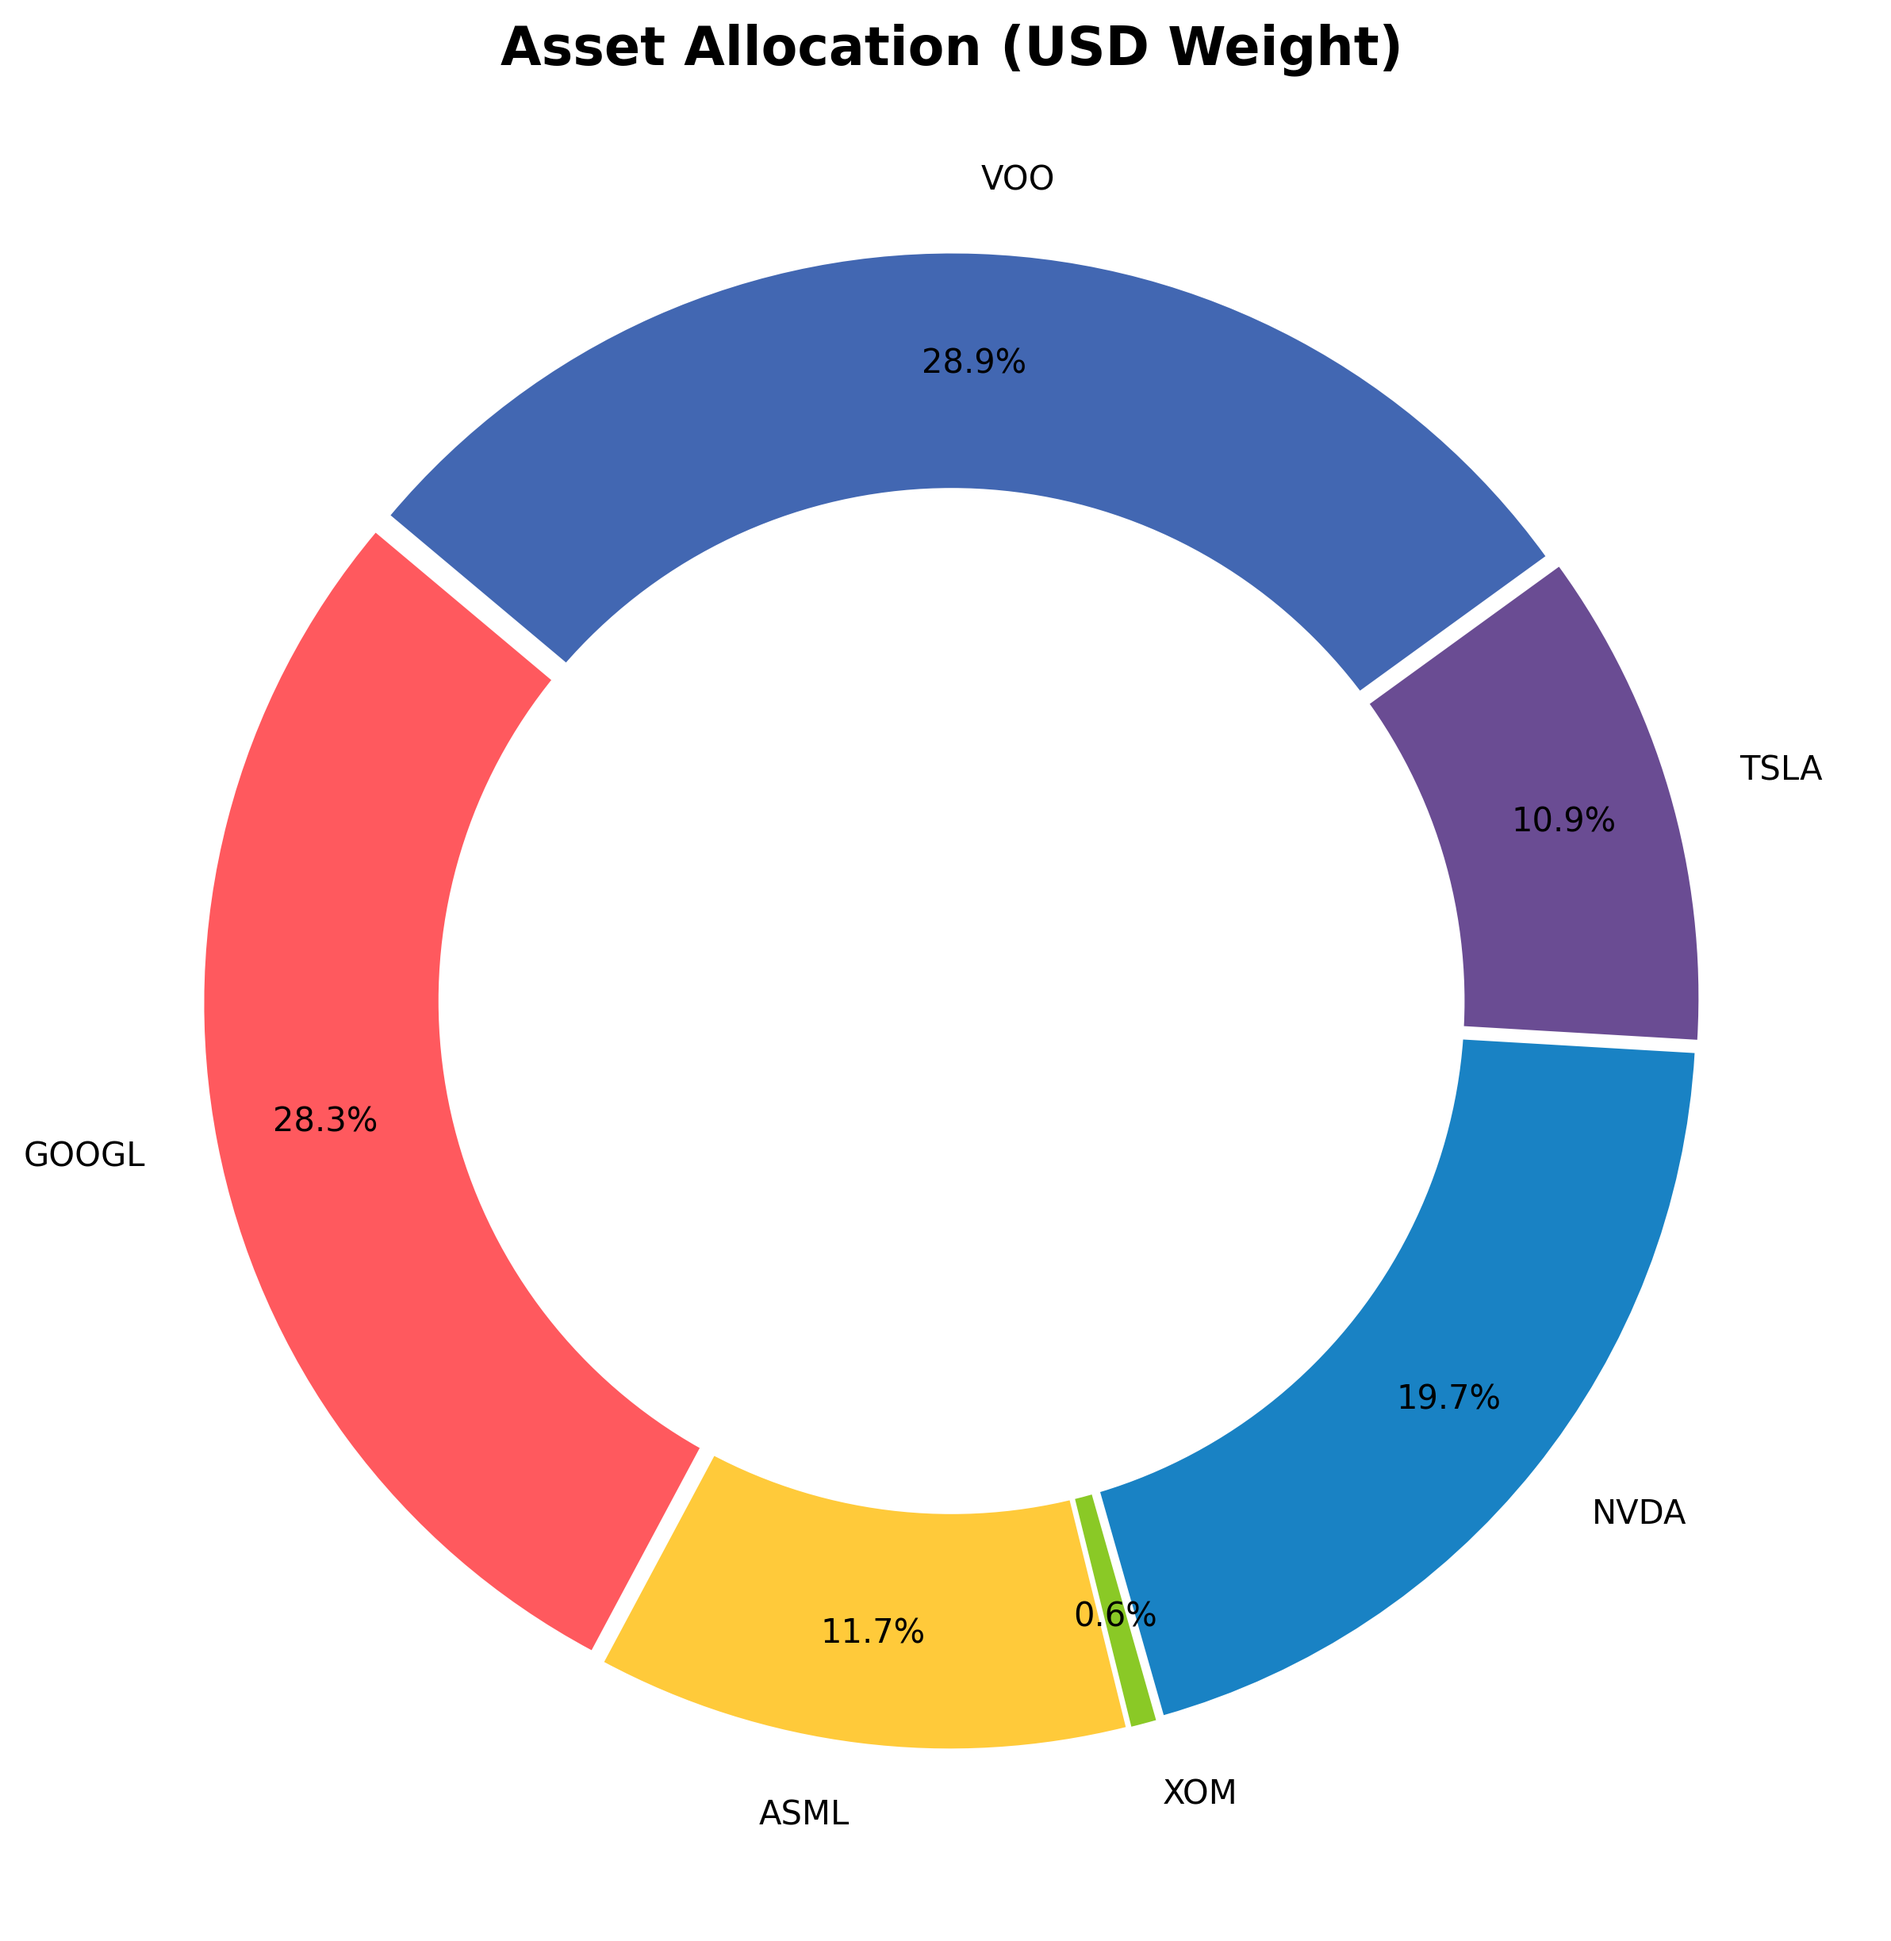
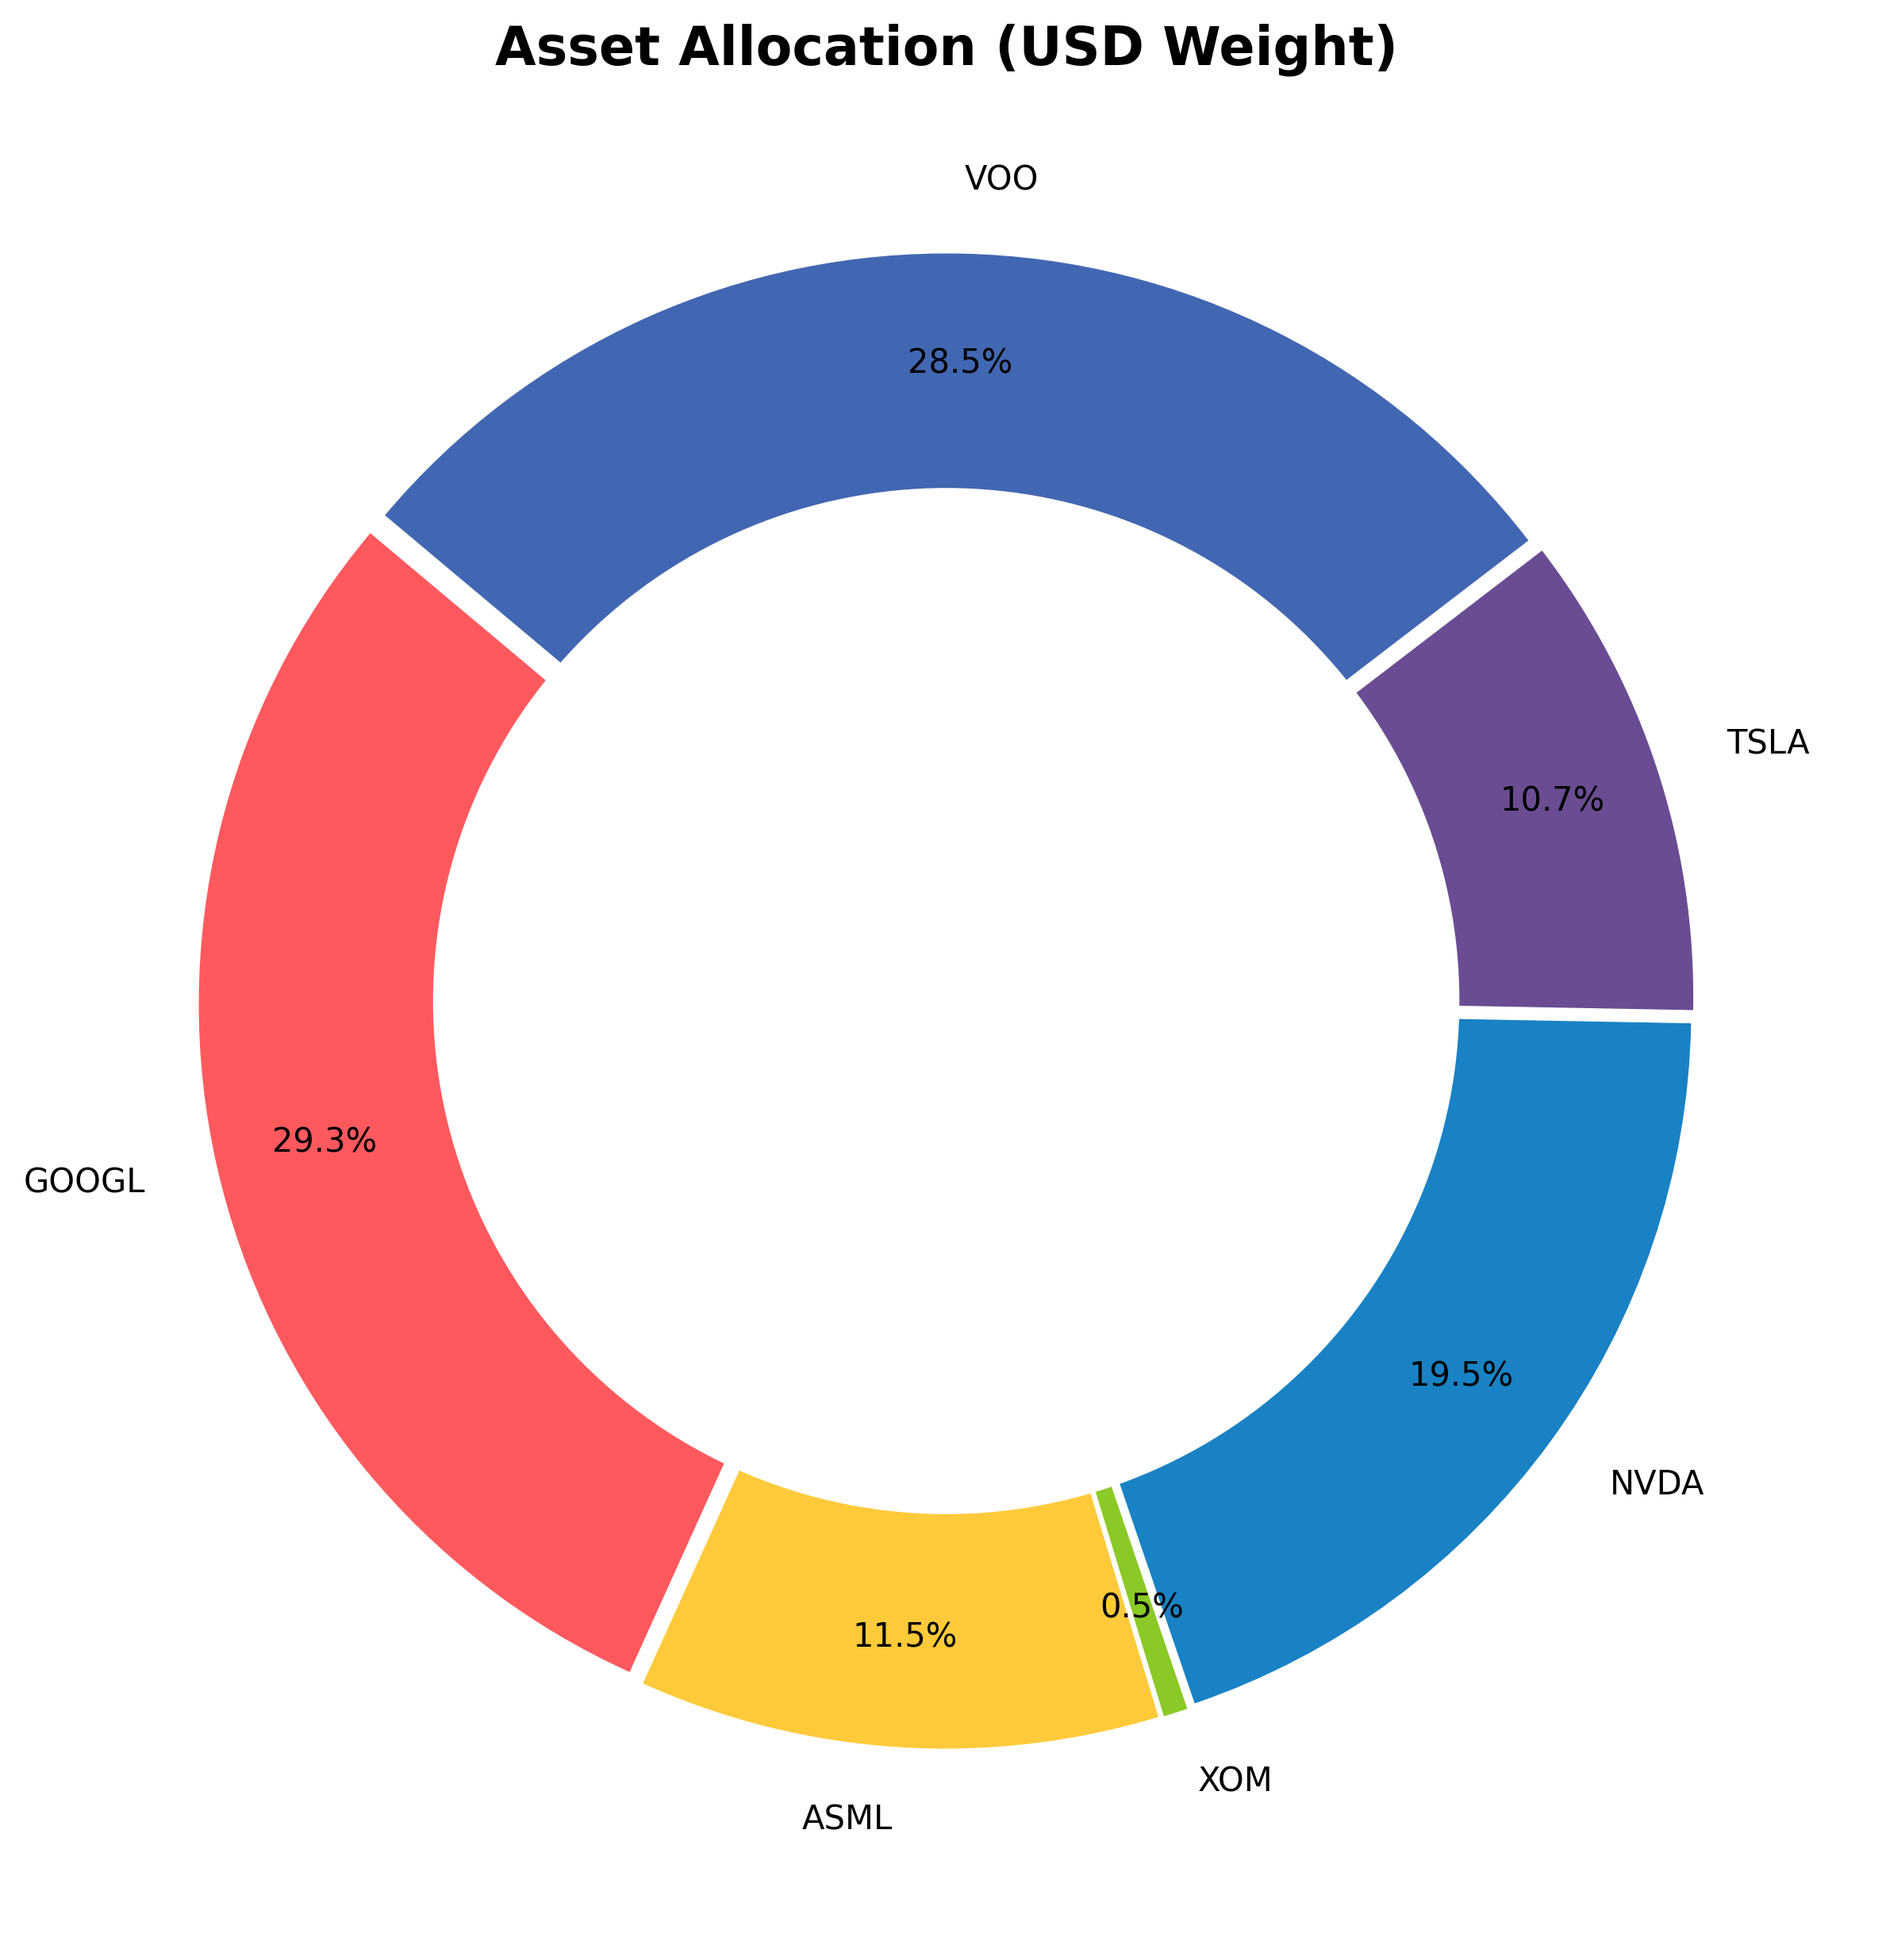
System Run: Analytics & Archive Update [skip ci]

diff --git a/README.md b/README.md
@@ -1,23 +1,23 @@
 # 📊 Portfolio Dashboard | מעקב תיק השקעות
-**Last Update:** 31/07/2026 02:12 | **USD/ILS:** ₪3.057
+**Last Update:** 31/07/2026 19:04 | **USD/ILS:** ₪3.061
 
 ## 💰 Portfolio Summary | סיכום התיק
 | Metric | Value | נתון |
 | :--- | :--- | :--- |
-| **Current Value** | `₪173,006` | **שווי נוכחי** |
-| **Total Invested** | `₪131,040` | **סך השקעה** |
-| **Total Profit/Loss** | `+32.03%` (₪41,966) | **רווח/הפסד כולל** |
-| **Daily Change** | `+1.87%` | **שינוי יומי** |
+| **Current Value** | `₪176,233` | **שווי נוכחי** |
+| **Total Invested** | `₪131,233` | **סך השקעה** |
+| **Total Profit/Loss** | `+34.29%` (₪45,000) | **רווח/הפסד כולל** |
+| **Daily Change** | `+2.25%` | **שינוי יומי** |
 
 ## 📜 Holdings | פירוט החזקות
 | Ticker | Shares | Avg. Cost | Current Price | P&L % | P&L ILS |
 | :--- | :--- | :--- | :--- | :--- | :--- |
-| GOOGL | 48 | $187.99 | $333.68 | 🟢 +77.50% | ₪21,375 |
-| ASML | 4 | $934.51 | $1,652.00 | 🟢 +76.78% | ₪8,772 |
-| XOM | 2 | $126.08 | $157.08 | 🟢 +24.59% | ₪190 |
-| NVDA | 57 | $148.62 | $195.15 | 🟢 +31.31% | ₪8,107 |
-| TSLA | 20 | $436.45 | $308.89 | 🔴 -29.23% | ₪-7,798 |
-| VOO | 24 | $527.38 | $681.70 | 🟢 +29.26% | ₪11,321 |
+| GOOGL | 48 | $187.99 | $351.99 | 🟢 +87.24% | ₪24,097 |
+| ASML | 4 | $934.51 | $1,649.36 | 🟢 +76.49% | ₪8,753 |
+| XOM | 2 | $126.08 | $153.62 | 🟢 +21.84% | ₪169 |
+| NVDA | 57 | $148.62 | $196.70 | 🟢 +32.35% | ₪8,389 |
+| TSLA | 20 | $436.45 | $308.14 | 🔴 -29.40% | ₪-7,855 |
+| VOO | 24 | $527.38 | $683.20 | 🟢 +29.55% | ₪11,448 |
 
 ## 📈 Charts | גרפים
 ![Performance](./data_hub/portfolio_performance.png)
